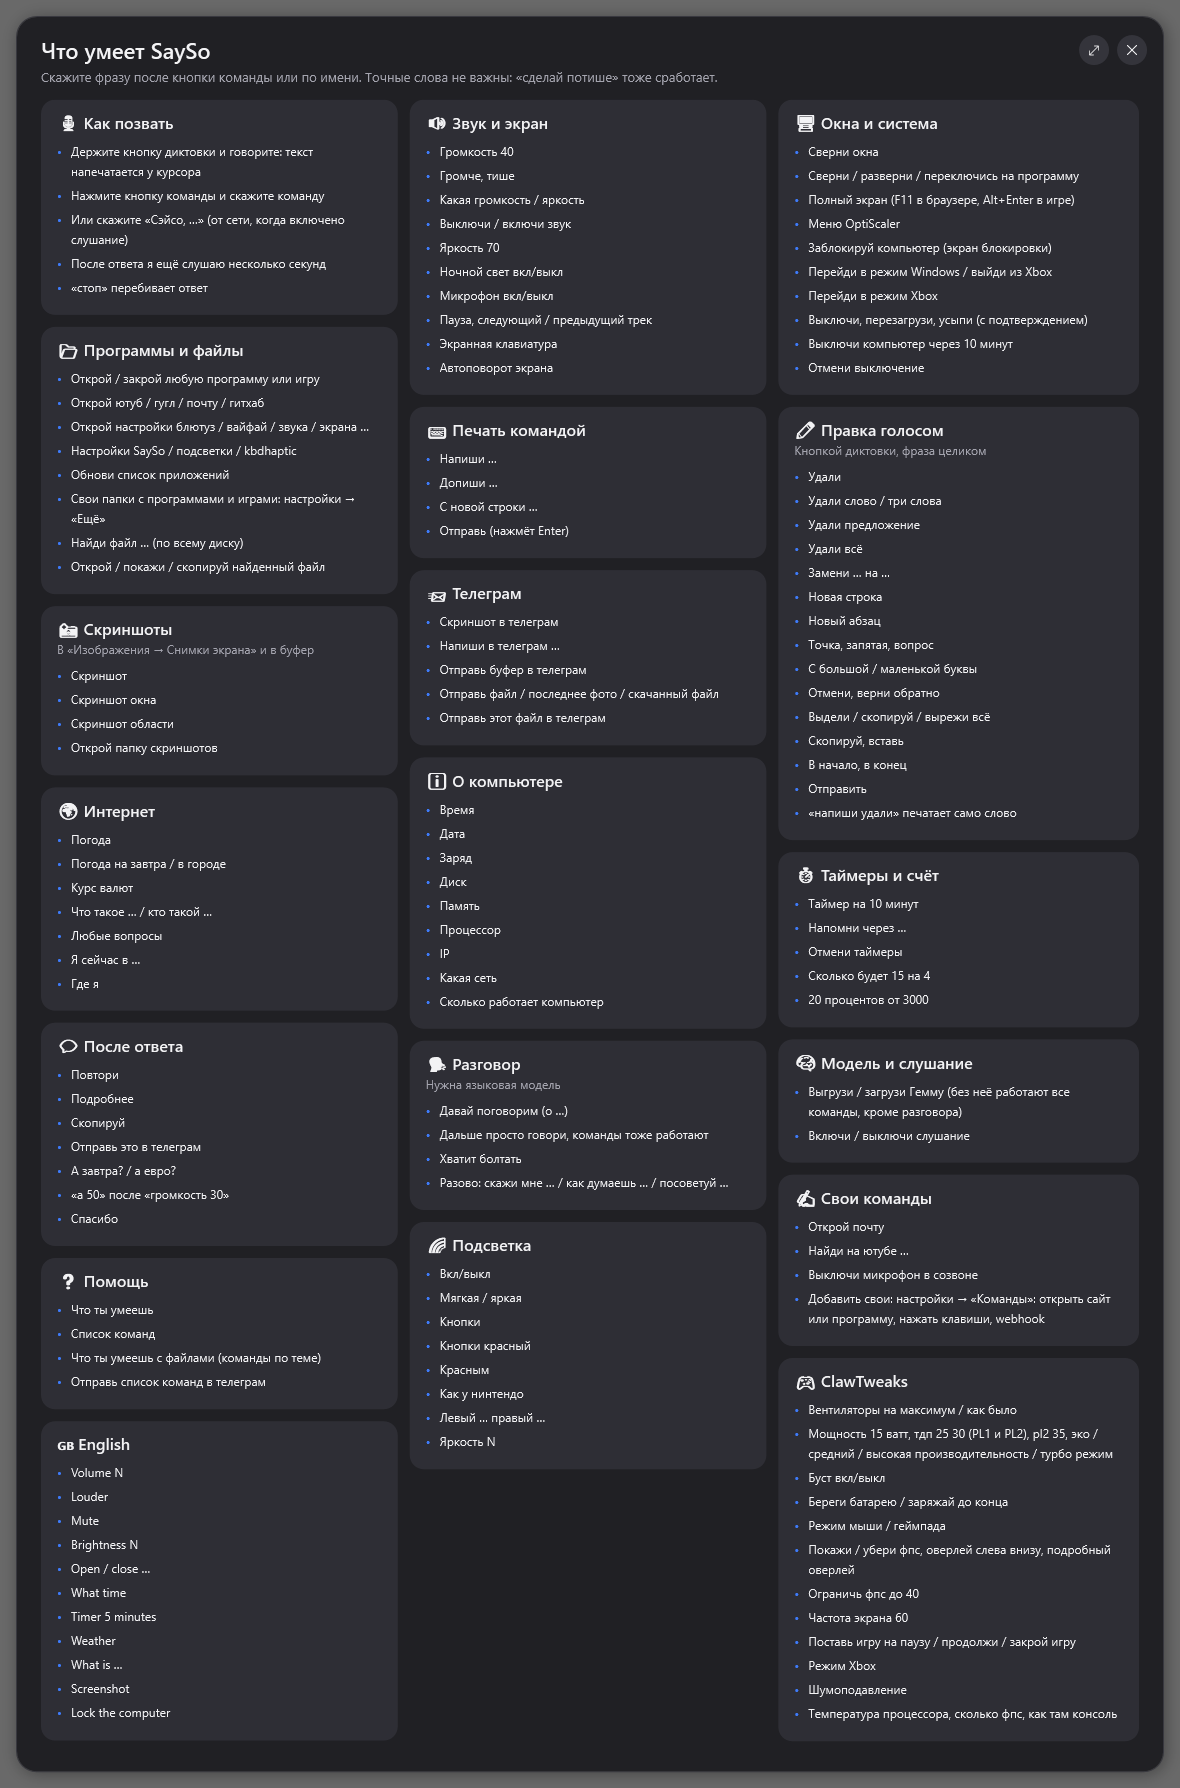
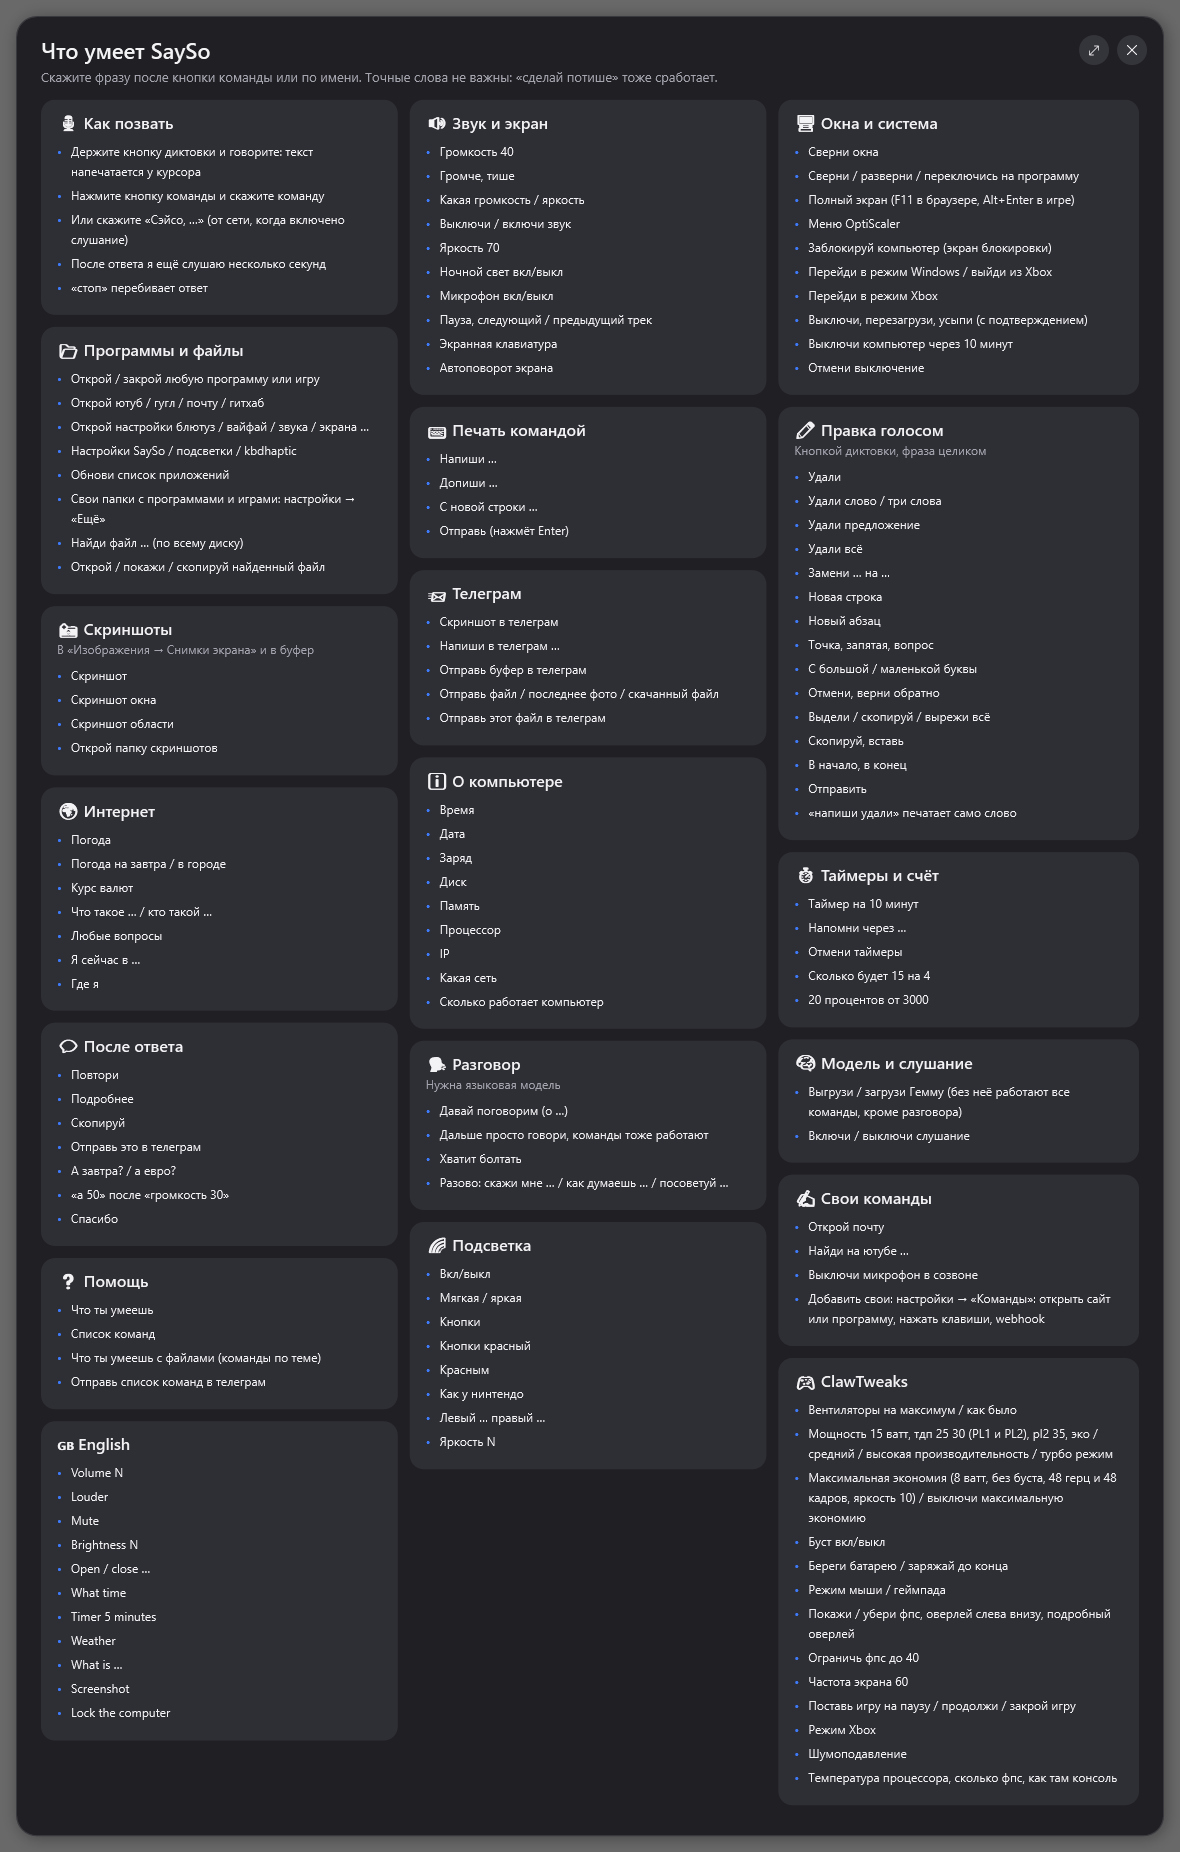
Recognition: no switch without the model (asks to download), honest status, no crash loop without a model; ClawTweaks 'максимальная экономия' and its undo

diff --git a/src/SettingsWindow.xaml b/src/SettingsWindow.xaml
@@ -474,6 +474,14 @@
             </Border>
             <TextBlock x:Name="HwText" Foreground="{DynamicResource Sub}" FontSize="12" TextWrapping="Wrap" Margin="4,8,0,0" Text="Определяю железо…"/>
             <TextBlock x:Name="SysStatus" Foreground="{DynamicResource Sub}" FontSize="12" TextWrapping="Wrap" Margin="4,8,0,0"/>
+            <!-- a size or device whose model is not downloaded: asked here instead of a silent fallback (SwitchStt) -->
+            <StackPanel x:Name="SttAsk" Visibility="Collapsed" Margin="4,10,0,0">
+              <TextBlock x:Name="SttAskText" FontSize="12" TextWrapping="Wrap"/>
+              <StackPanel Orientation="Horizontal" Margin="0,8,0,0">
+                <Button x:Name="SttAskGet" Content="Скачать и переключить" Style="{StaticResource Flat}" Height="30" FontSize="12" Padding="14,0"/>
+                <Button x:Name="SttAskCancel" Content="Отмена" Style="{StaticResource Flat}" Height="30" FontSize="12" Padding="14,0" Margin="8,0,0,0"/>
+              </StackPanel>
+            </StackPanel>
           </StackPanel>
           <StackPanel Grid.Column="2">
             <StackPanel Orientation="Horizontal" Margin="4,14,0,6">

diff --git a/src/SettingsWindow.xaml.cs b/src/SettingsWindow.xaml.cs
@@ -146,11 +146,13 @@ namespace ClawVoice
 
             // system
             foreach (var (rb, dev) in new[] { (DevAuto, "auto"), (DevNpu, "NPU"), (DevGpu, "GPU"), (DevCpu, "CPU") })
-                rb.Click += async (_, _) => { Set("stt_device", dev); await RestartAndWait(SysStatus); };
+                rb.Click += async (_, _) => await SwitchStt(null, dev);
+            SttAskGet.Click += async (_, _) => await SttAskDownload();
+            SttAskCancel.Click += (_, _) => SttAskClose();
             foreach (var (rb, dev) in new[] { (LlmDevAuto, "auto"), (LlmDevNpu, "NPU"), (LlmDevGpu, "GPU"), (LlmDevCpu, "CPU") })
                 rb.Click += (_, _) => ChooseLlmDevice(dev);
             foreach (var (rb, size) in new[] { (SttAuto, "auto"), (SttSmall, "small"), (SttTurbo, "turbo") })
-                rb.Click += async (_, _) => await ChooseStt(size);
+                rb.Click += async (_, _) => await SwitchStt(size, null);
             AddAppFolderBtn.Click += async (_, _) => await AddAppFolder();
             ExportBtn.Click += (_, _) => Export();
             ImportBtn.Click += (_, _) => Import();
@@ -856,6 +858,7 @@ namespace ClawVoice
             _sysLoaded = true;
             var r = await Task.Run(() => Stack.Cli("hw"));
             _hasNpu = (bool?)r["npu"] == true;
+            _autoDevice = (string?)r["recommend"] ?? (_hasNpu ? "NPU" : "CPU");
             // "NPU, видеокарта Arc 140V, процессор": the GPU's own name goes next to it, without the (R)(TM)(16GB) noise
             var found = (r["openvino"] as JsonArray)?.Select(x => (string)x!).ToList() ?? new List<string>();
             string gpu = System.Text.RegularExpressions.Regex.Replace((string?)r["gpu"] ?? "", @"\((R|TM|\d+GB|iGPU|dGPU)\)|Intel|GPU", "").Trim();
@@ -866,7 +869,7 @@ namespace ClawVoice
             names.Add("процессор");
             string rec = (string?)r["recommend"] switch { "NPU" => "NPU", "GPU" => "видеокарта", _ => "процессор" };
             HwText.Text = r["error"] is { } err ? "Не удалось определить железо: " + err
-                : $"Найдено: {string.Join(", ", names)}. Рекомендую: {rec}.";
+                : $"Найдено: {string.Join(", ", names)}. Рекомендуется: {rec}.";
             _ = FillModels();
         }
 
@@ -894,6 +897,7 @@ namespace ClawVoice
         // ---------------- speech models (system page)
 
         bool _hasNpu, _modelBusy;
+        string _autoDevice = "CPU";  // "Авто" by hardware only (NPU, then an Intel GPU, then the CPU), never by models
         JsonObject _models = new();
 
         /// <summary>The device dictation runs on now (stt_state.json), else what the hardware check recommends.</summary>
@@ -996,26 +1000,88 @@ namespace ClawVoice
             await FillModels();
         }
 
-        /// <summary>A new speech model size: download it first when this device has no copy, then restart dictation.</summary>
-        async Task ChooseStt(string size)
+        (string Size, string Device, string Key)? _sttAsk;  // the switch waiting for its model
+
+        /// <summary>A new speech model size or device. Only when the model for that pair is downloaded does it switch;
+        /// otherwise the choice goes back and a question offers the download (dictation would silently fall back to
+        /// another model). "Авто" resolves the device by hardware only (_autoDevice), so a downloaded GPU model never
+        /// moves it off the NPU.</summary>
+        async Task SwitchStt(string? size, string? device)
         {
-            Set("stt_model", size);
+            var s = Read();
+            size ??= (string?)s["stt_model"] ?? "auto";
+            device ??= (string?)s["stt_device"] ?? "auto";
             if (_models["info"] is null) await FillModels();
-            string key = SttKey(size, RunningDevice());
+            string key = SttKey(size, device == "auto" ? _autoDevice : device);
             if (_models["info"]?[key] is JsonObject mi && (bool?)mi["installed"] != true)
             {
-                if (!await DownloadModel(key, (string?)mi["dir"] ?? "", (int?)mi["mb"] ?? 0)) return;
+                ShowSttChoice();  // the radio buttons back to what runs now
+                string where = (device == "auto" ? _autoDevice : device) switch { "GPU" => "видеокарты", "CPU" => "процессора", _ => "NPU" };
+                string title = (ModelCatalog.FirstOrDefault(m => m.Key == key).Title ?? key).Split(" для ")[0];  // "Точная (Whisper turbo)"
+                SttAskText.Text = $"Для {where} нужна модель «{title}», {(int?)mi["mb"] ?? 0} МБ. Она не скачана.";
+                _sttAsk = (size, device, key);
+                SttAsk.Visibility = Visibility.Visible;
+                return;
             }
-            await RestartAndWait(ModelsStatus, key == "turbo-npu"
-                ? " Точная модель для NPU в первый раз готовится около 6 минут, пока работает быстрая." : "");
+            SttAskClose();
+            await ApplyStt(size, device, key);
+        }
+
+        async Task ApplyStt(string size, string device, string key)
+        {
+            Set("stt_model", size);
+            Set("stt_device", device);
+            ShowSttChoice();
+            await RestartAndWait(SysStatus);
             await FillModels();
+        }
+
+        async Task SttAskDownload()
+        {
+            if (_sttAsk is not { } a || _models["info"]?[a.Key] is not JsonObject mi) return;
+            SttAsk.Visibility = Visibility.Collapsed;
+            if (await DownloadModel(a.Key, (string?)mi["dir"] ?? "", (int?)mi["mb"] ?? 0)) await ApplyStt(a.Size, a.Device, a.Key);
+            _sttAsk = null;
+        }
+
+        void SttAskClose()
+        {
+            _sttAsk = null;
+            SttAsk.Visibility = Visibility.Collapsed;
+        }
+
+        /// <summary>What dictation really runs, from stt_state.json (dictate.py), in words: no folder names, and the
+        /// "готовится" note only while the NPU build of the accurate model is being compiled.</summary>
+        string SttStateText(JsonNode state)
+        {
+            static string Where(string? d) => d switch { "GPU" => "видеокарте", "CPU" => "процессоре", _ => "NPU" };
+            static string Model(string? dir) => (dir ?? "").Contains("small") ? "быстрая модель" : "точная модель";
+            string dev = (string?)state["device"] ?? "", model = (string?)state["model"] ?? "";
+            if ((string?)state["error"] == "no_model")
+                return $"Для {(dev == "GPU" ? "видеокарты" : dev == "CPU" ? "процессора" : "NPU")} нет скачанной модели. Скачайте её справа, в «Скачанных моделях».";
+            if ((string?)state["preparing"] == "turbo-npu")
+                return model.Contains("small")
+                    ? "Работает быстрая модель. Точная для NPU готовится первый раз, около 6 минут, потом включится сама."
+                    : "Точная модель для NPU готовится первый раз, около 6 минут. Диктовка заработает, когда она будет готова.";
+            string chosen = (string?)Read()["stt_device"] ?? "auto";
+            string moved = chosen != "auto" && chosen != dev ? $" На {Where(chosen)} запустить не удалось, подробности в dictate.log." : "";
+            return $"Готово: {Model(model)} на {Where(dev)}.{moved}";
+        }
+
+        /// <summary>The size and device radio buttons from the saved settings.</summary>
+        void ShowSttChoice()
+        {
+            var s = Read();
+            string stt = (string?)s["stt_model"] ?? "auto", dev = (string?)s["stt_device"] ?? "auto";
+            (stt == "small" ? SttSmall : stt == "turbo" ? SttTurbo : SttAuto).IsChecked = true;
+            (dev == "NPU" ? DevNpu : dev == "GPU" ? DevGpu : dev == "CPU" ? DevCpu : DevAuto).IsChecked = true;
         }
 
         bool _restarting;
 
         /// <summary>Restart dictation and show that it is not working meanwhile: a ticking "Перезапускаю…" until dictate.py
         /// writes stt_state.json with the model it loaded (up to 2 min), the device and model choices locked.</summary>
-        async Task RestartAndWait(TextBlock status, string extra = "")
+        async Task RestartAndWait(TextBlock status)
         {
             if (_restarting) return;
             _restarting = true;
@@ -1040,7 +1106,7 @@ namespace ClawVoice
             foreach (var e in locked) e.IsEnabled = true;
             _restarting = false;
             status.Text = state is null ? "Распознавание долго не запускается. Подробности в dictate.log в папке программы."
-                : $"Готово: {state["model"]} на {state["device"]}.{extra}";
+                : SttStateText(state);
         }
 
         // ---------------- program folders (system page): settings "app_folders", searched by "открой …"

diff --git a/python/dictate.py b/python/dictate.py
@@ -77,7 +77,9 @@ def _model_for(device):
     for key in order:
         if _vs.whisper_complete(key) and (key != "turbo-npu" or os.path.exists(_npu_ready(key))):
             return _vs.whisper_dir(key)
-    return _vs.whisper_dir("small")
+    if _vs.whisper_complete("turbo-npu") and device == "NPU":  # no small to dictate meanwhile: compile while loading
+        return _vs.whisper_dir("turbo-npu")
+    return None  # nothing downloaded for this device (it used to load the missing small and restart in a loop)
 
 
 def _cache_dir(model):
@@ -92,6 +94,11 @@ def _npu_ready(key):
 
 DEVICE = _pick_device()
 MODEL = _model_for(DEVICE)
+if MODEL is None:  # Settings shows "no model for this device" from this state instead of "долго не запускается"
+    with open(os.path.join(HERE, "stt_state.json"), "w", encoding="utf-8") as _f:
+        json.dump({"model": "", "device": DEVICE, "preparing": "", "error": "no_model"}, _f)
+    print(f"no downloaded speech model for {DEVICE}: download one in Settings, Распознавание", flush=True)
+    sys.exit(3)
 _lang = os.environ.get("DICTATE_LANG")
 if _lang is None:
     _l = _vs.get("language") or "ru"
@@ -114,6 +121,11 @@ HOTKEYS = voice_settings.hotkeys()
 user32 = ctypes.windll.user32
 
 print(f"loading Whisper on {DEVICE} ...", flush=True)
+_compiling = os.path.basename(MODEL) == os.path.basename(_vs.whisper_dir("turbo-npu")) and \
+    not os.path.exists(_npu_ready("turbo-npu"))
+if _compiling:  # the first load compiles it (~6 min): Settings says so meanwhile
+    with open(os.path.join(HERE, "stt_state.json"), "w", encoding="utf-8") as _f:
+        json.dump({"model": os.path.basename(MODEL), "device": DEVICE, "preparing": "turbo-npu"}, _f)
 _noted = DEVICE != "CPU" and not _crashed_on()
 if _noted:
     with open(LOADING_FILE, "w") as _f:
@@ -125,6 +137,8 @@ except Exception as e:  # an old NPU/GPU driver: fall back instead of leaving th
     for DEVICE in [d for d in ("GPU", "CPU") if d != DEVICE]:
         try:
             MODEL = _model_for(DEVICE)
+            if MODEL is None:
+                raise RuntimeError(f"no downloaded model for {DEVICE}")
             pipe = ov_genai.WhisperPipeline(MODEL, DEVICE, CACHE_DIR=_cache_dir(MODEL))
             break
         except Exception as e2:
@@ -133,6 +147,8 @@ except Exception as e:  # an old NPU/GPU driver: fall back instead of leaving th
         raise
 if _noted:  # loaded: not a crash. A note we skipped (previous crash) stays, the uninstaller removes it
     os.remove(LOADING_FILE)
+if _compiling and DEVICE == "NPU":  # compiled at this load: _prepare_npu must not do it again
+    open(_npu_ready("turbo-npu"), "w").write("ok")
 print(f"Whisper {os.path.basename(MODEL)} on {DEVICE}, language {LANG or 'auto'}", flush=True)
 whisper_lock = threading.Lock()  # hotkey recordings and the wake listener share one pipeline
 

diff --git a/docs/ВОЗМОЖНОСТИ.md b/docs/ВОЗМОЖНОСТИ.md
@@ -70,6 +70,7 @@
 
 ## MSI Claw
 - **Мощность:** эко (8 Вт), средний (15 Вт), высокая производительность (30 Вт), турбо (30/37 Вт). Можно и точно: «мощность 20 ватт», «ТДП 25 30».
+- **Максимальная экономия:** 8 Вт, буст выключен, 48 Гц, лимит 48 кадров, яркость 10. «Выключи максимальную экономию» возвращает всё как было.
 - **Вентиляторы:** на максимум, как было.
 - **Буст процессора:** вкл/выкл.
 - **Батарея:** береги батарею (заряд до 80%), заряжай до конца.
